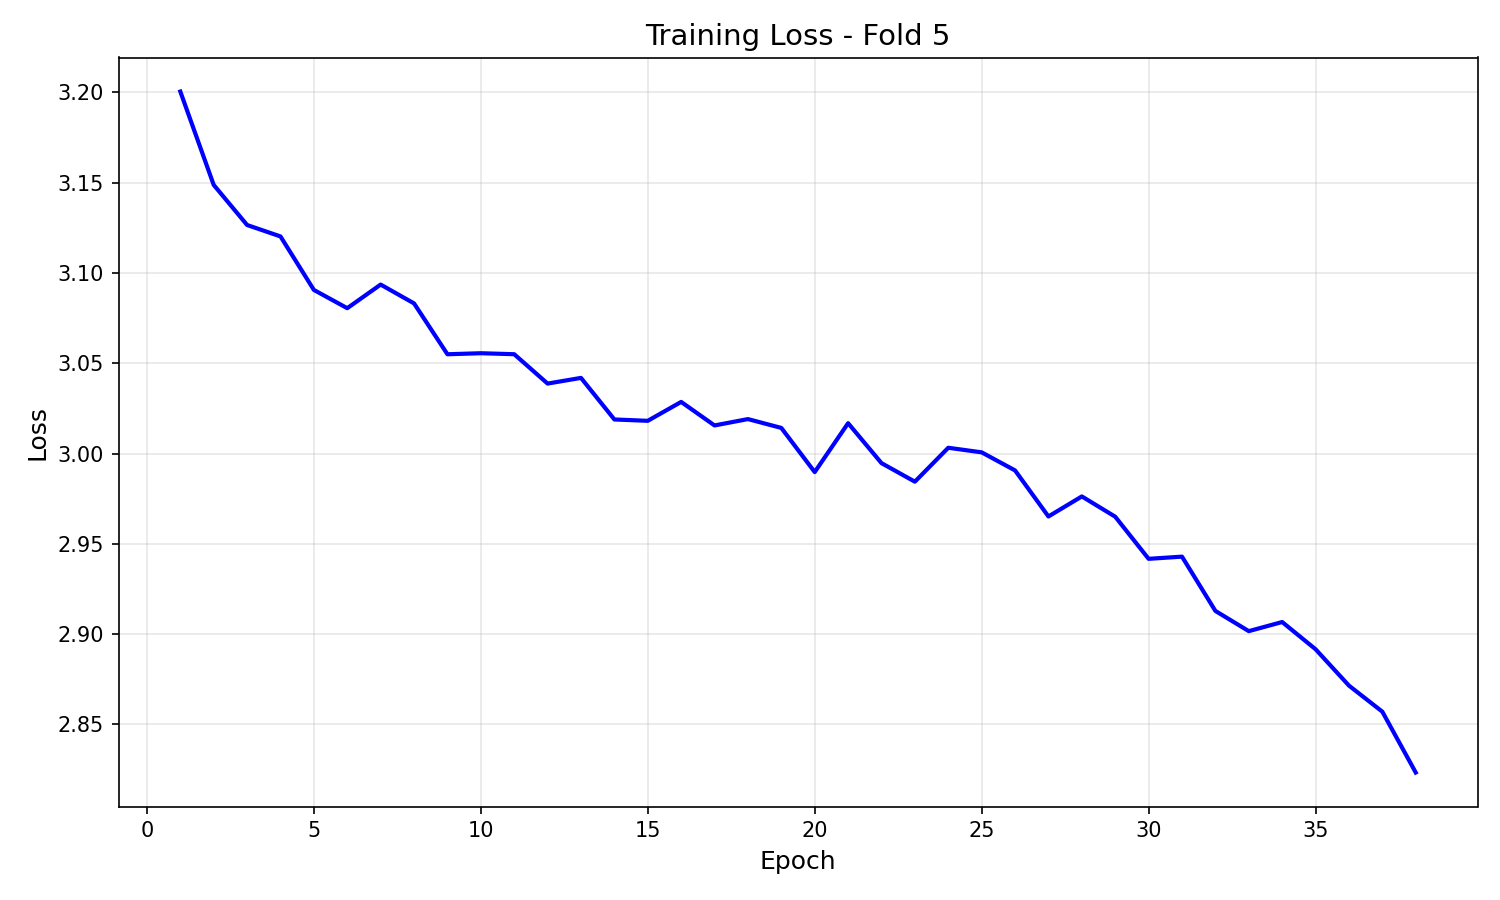
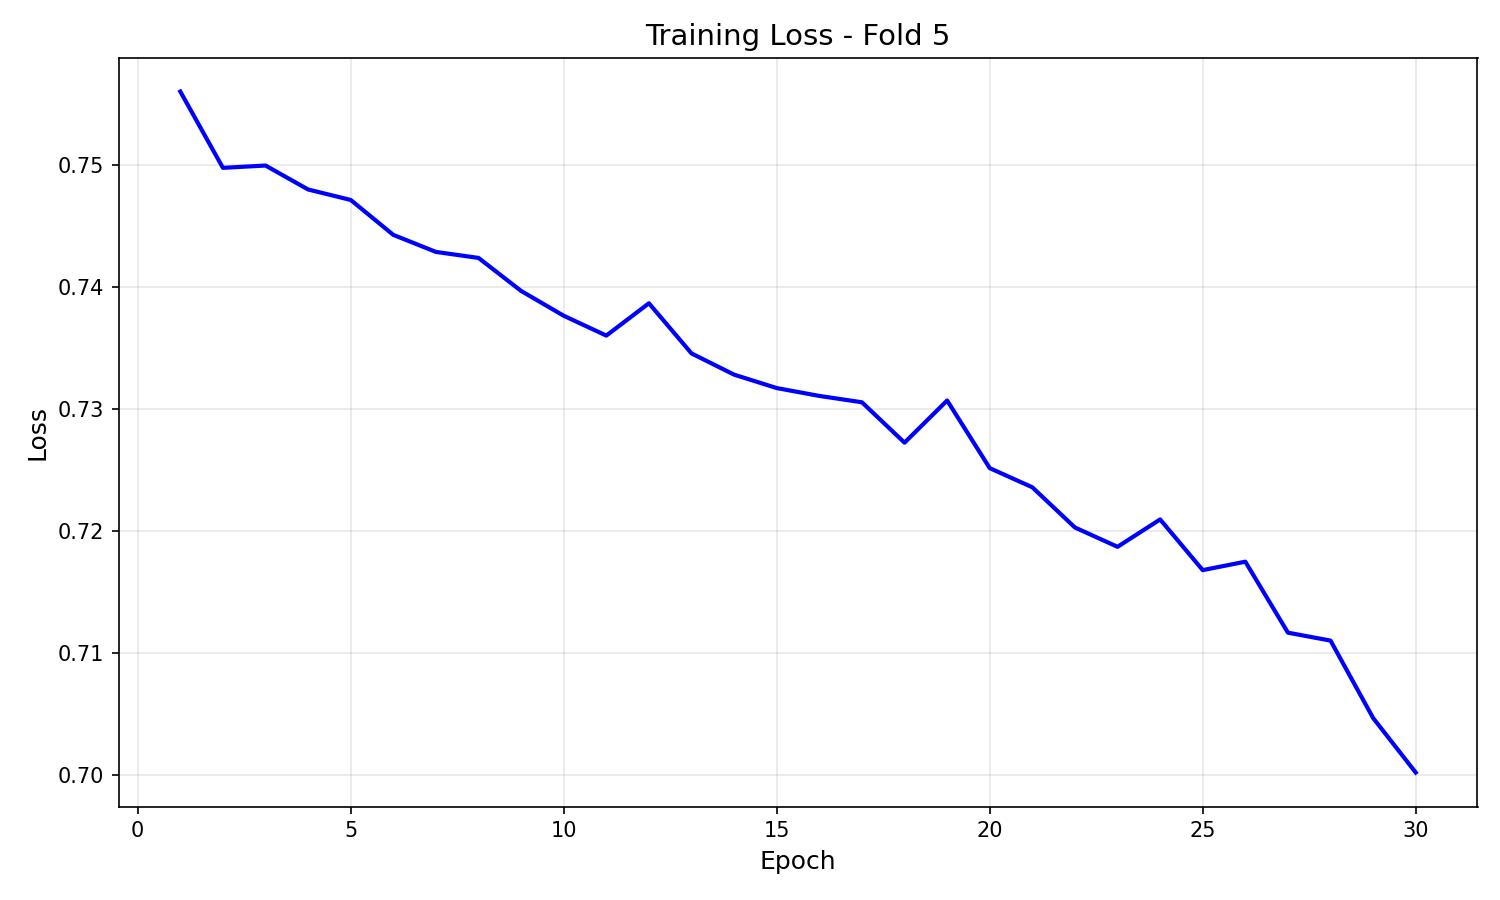
Lowered magnitude weight to minimize exploding gradients; added normalization after embedding layers

diff --git a/train.py b/train.py
@@ -98,7 +98,7 @@ def train_step(
     optimizer: torch.optim.Optimizer,
     bce_loss_fn: nn.BCEWithLogitsLoss,
     mse_loss_fn: nn.MSELoss,
-    mag_weight: float = 1.0,
+    mag_weight: float = 0.1,
     macro_stock_edges: Optional[torch.Tensor] = None,
     max_grad_norm: float = 1.0
 ) -> Dict[str, float]:
@@ -192,7 +192,7 @@ def train_epoch(
     bce_loss_fn: nn.BCEWithLogitsLoss,
     mse_loss_fn: nn.MSELoss,
     device: torch.device,
-    mag_weight: float = 1.0,
+    mag_weight: float = 0.1,
     max_grad_norm: float = 1.0
 ) -> Dict[str, float]:
     """
@@ -254,7 +254,7 @@ def evaluate(
     bce_loss_fn: nn.BCEWithLogitsLoss,
     mse_loss_fn: nn.MSELoss,
     device: torch.device,
-    mag_weight: float = 1.0,
+    mag_weight: float = 0.1,
 ) -> Dict[str, float]:
     """
     Evaluate model on validation data with multi-task metrics.
@@ -627,7 +627,7 @@ def main(
     use_real_data: bool = False,
     start_fold: int = 1,
     end_fold: Optional[int] = None,
-    mag_weight: float = 1.0,
+    mag_weight: float = 0.1,
     force_cpu: bool = False
 ):
     """
@@ -708,7 +708,7 @@ def main(
     
     # Loss functions (shared across folds)
     bce_loss_fn = nn.BCEWithLogitsLoss()
-    mse_loss_fn = nn.MSELoss()
+    mse_loss_fn = nn.SmoothL1Loss()
     
     # Load any previously completed fold results for resume
     all_fold_results = []
@@ -942,7 +942,7 @@ if __name__ == "__main__":
     parser.add_argument(
         "--mag-weight",
         type=float,
-        default=1.0,
+        default=0.1,
         help="Weight λ for magnitude loss (default: 1.0)"
     )
     

diff --git a/macro_dgrcl.py b/macro_dgrcl.py
@@ -527,6 +527,9 @@ class MacroDGRCL(nn.Module):
             num_layers=temporal_layers,
             dropout=dropout
         )
+
+        # Embedding Normalization
+        self.embedding_norm = nn.LayerNorm(hidden_dim)
         
         # Dynamic Graph Learner
         self.graph_learner = DynamicGraphLearner(
@@ -581,6 +584,10 @@ class MacroDGRCL(nn.Module):
         # 1. Temporal Encoding
         stock_h = self.stock_encoder(stock_features)  # [N_s, H]
         macro_h = self.macro_encoder(macro_features)  # [N_m, H]
+
+        # Normalize embeddings
+        stock_h = self.embedding_norm(stock_h)
+        macro_h = self.embedding_norm(macro_h)
         
         # 2. Dynamic Graph Learning (Stock→Stock)
         stock_stock_edges, edge_weights = self.graph_learner(
